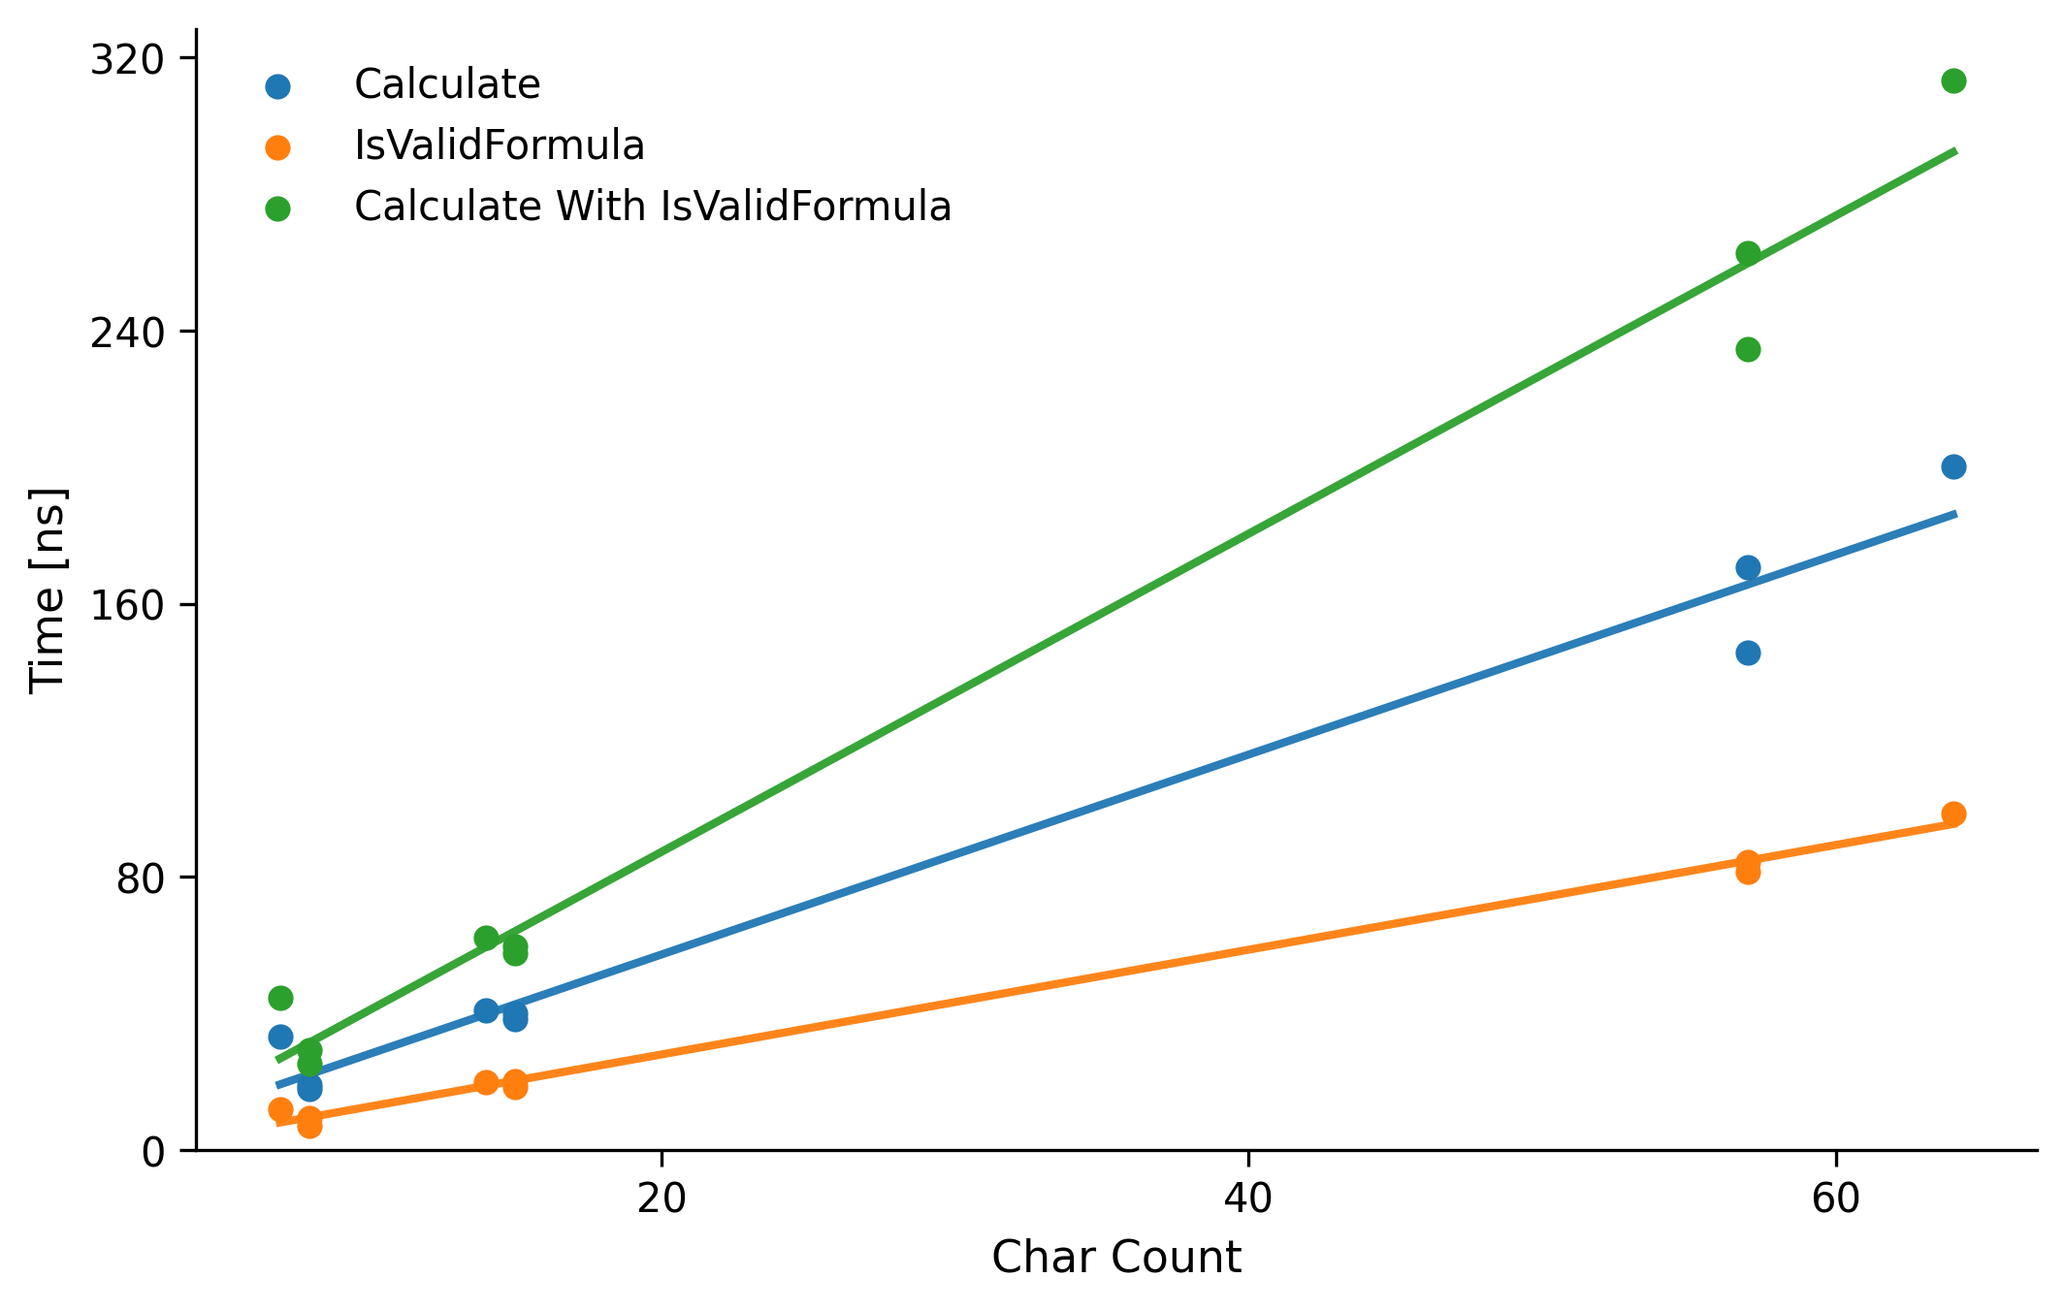
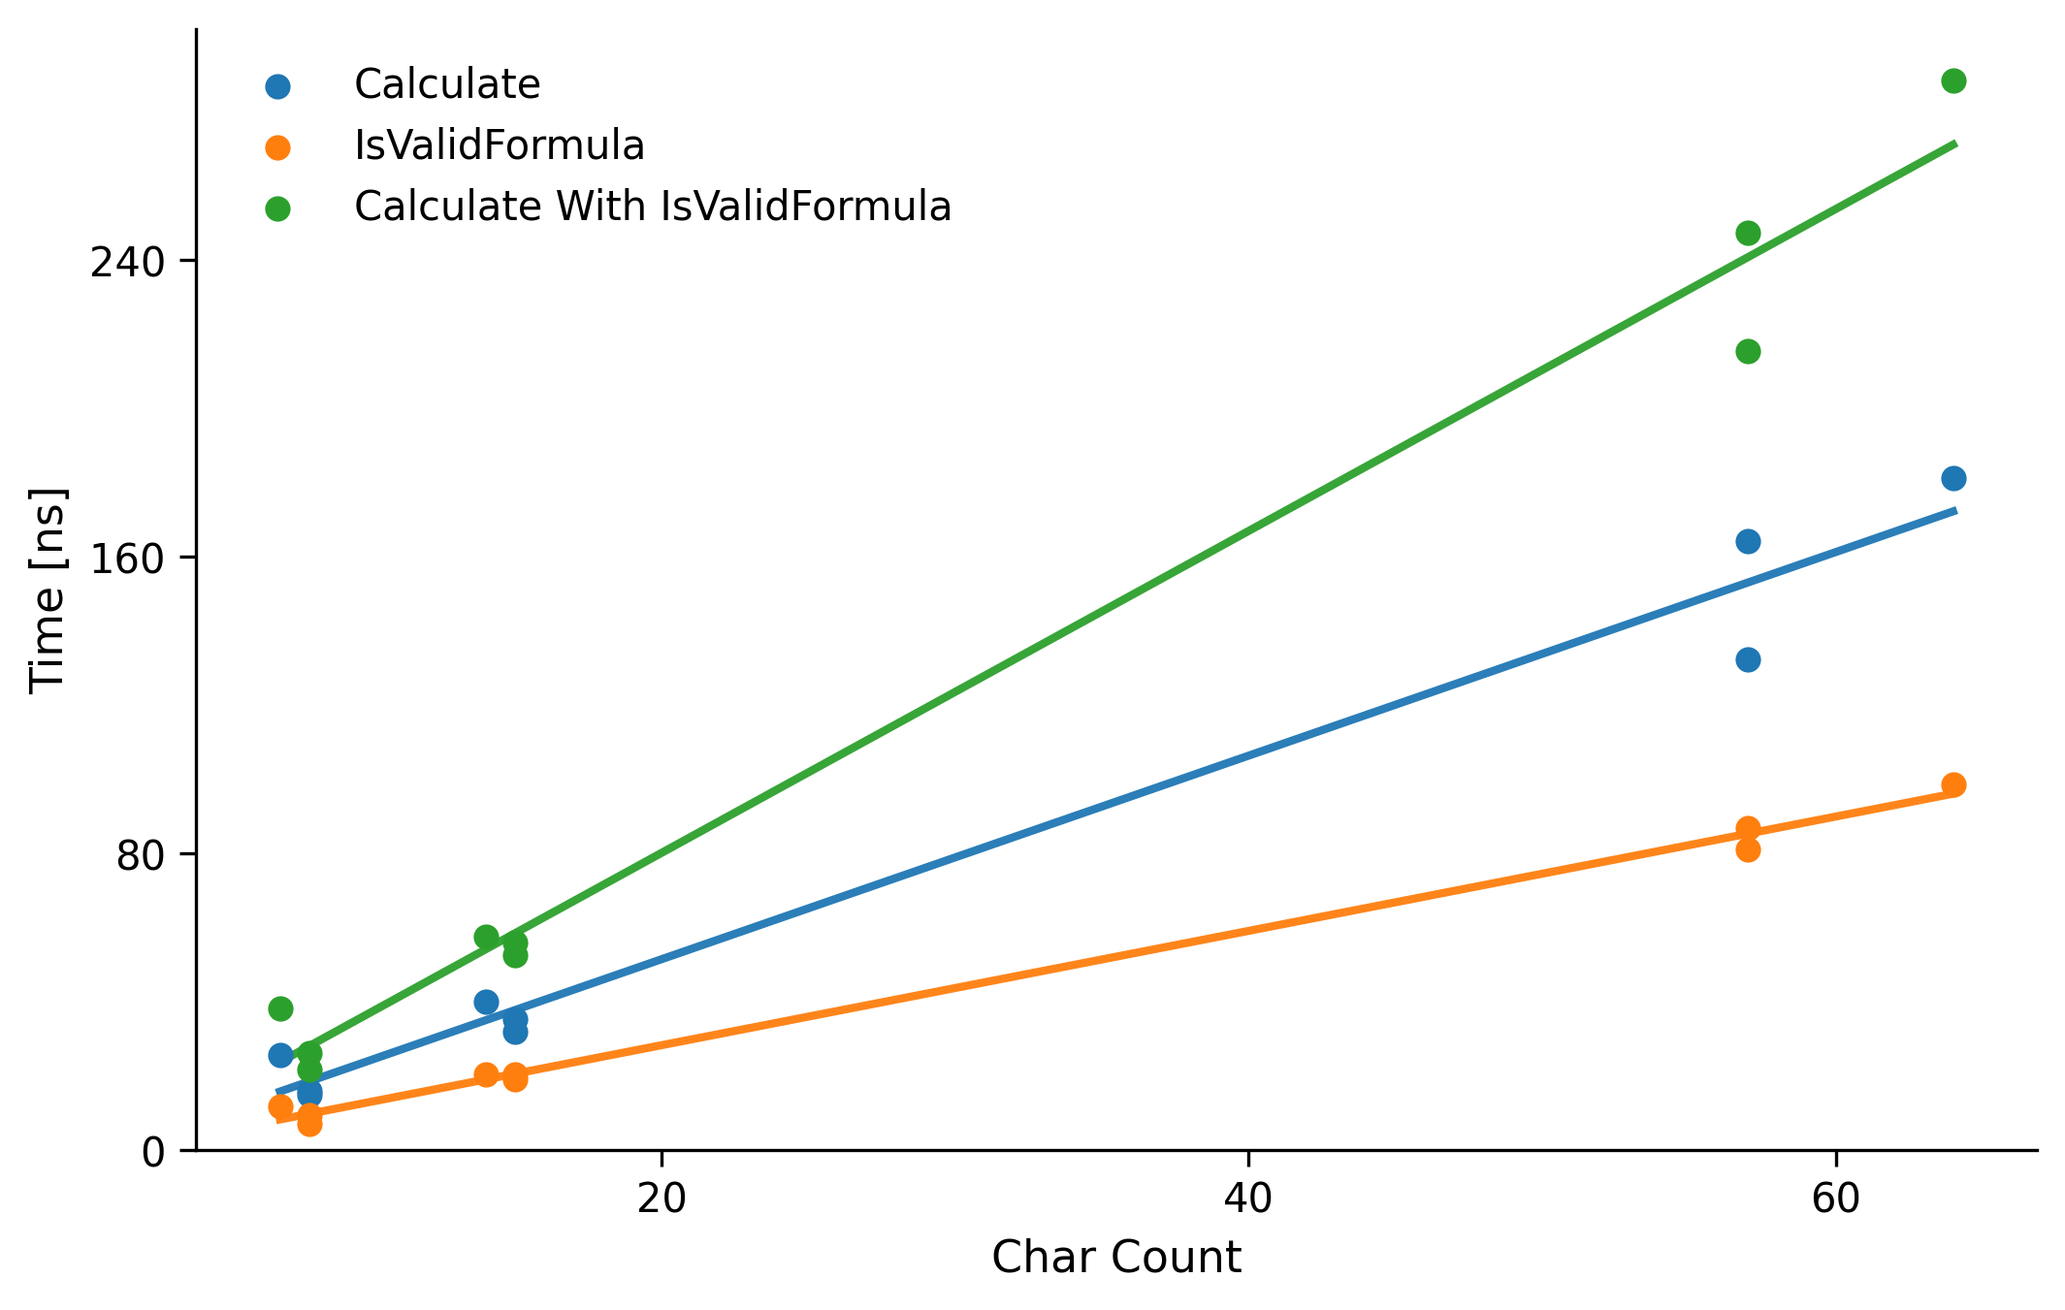
Update benchmark results and metadata for improved accuracy and clarity

diff --git a/dotnet/BenchmarkResults/BenchmarkResult.html b/dotnet/BenchmarkResults/BenchmarkResult.html
@@ -2,7 +2,7 @@
 <html lang='en'>
 <head>
 <meta charset='utf-8' />
-<title>foriver4725.FormulaCalculator.Benchmarks.Benchmarks-20260531-012159</title>
+<title>foriver4725.FormulaCalculator.Benchmarks.Benchmarks-20261004-000212</title>
 
 <style type="text/css">
 	table { border-collapse: collapse; display: block; width: 100%; overflow: auto; }
@@ -13,7 +13,7 @@
 </head>
 <body>
 <pre><code>
-BenchmarkDotNet v0.15.8, macOS Tahoe 26.5 (25F71) [Darwin 25.5.0]
+BenchmarkDotNet v0.15.8, macOS 27.0.1 (26A434) [Darwin 27.0.0]
 Apple M3, 1 CPU, 8 logical and 8 physical cores
 .NET SDK 10.0.102
   [Host]     : .NET 8.0.10 (8.0.10, 8.0.1024.46610), Arm64 RyuJIT armv8.0-a
@@ -24,33 +24,33 @@ Apple M3, 1 CPU, 8 logical and 8 physical cores
 <table>
 <thead><tr><th>Method                 </th><th>Input         </th><th>Case          </th><th>Char Count</th><th>Mean</th><th>Error</th><th>StdDev</th><th>Allocated</th>
 </tr>
-</thead><tbody><tr><td>Calculate</td><td>Len08_Mod_Pow</td><td>Len08_Mod_Pow</td><td>7</td><td>33.252 ns</td><td>0.5347 ns</td><td>0.4465 ns</td><td>-</td>
-</tr><tr><td>Calculate</td><td>Len08_Decimal_AddMul</td><td>Len08_Decimal_AddMul</td><td>8</td><td>17.841 ns</td><td>0.3593 ns</td><td>0.3689 ns</td><td>-</td>
-</tr><tr><td>Calculate</td><td>Len08_Whitespace</td><td>Len08_Whitespace</td><td>8</td><td>19.005 ns</td><td>0.0526 ns</td><td>0.0439 ns</td><td>-</td>
-</tr><tr><td>Calculate</td><td>Len16_Mod_Decimal</td><td>Len16_Mod_Decimal</td><td>14</td><td>40.973 ns</td><td>0.2759 ns</td><td>0.2446 ns</td><td>-</td>
-</tr><tr><td>Calculate</td><td>Len16_Pow_Decimal</td><td>Len16_Pow_Decimal</td><td>15</td><td>38.453 ns</td><td>0.2866 ns</td><td>0.2681 ns</td><td>-</td>
-</tr><tr><td>Calculate</td><td>Len16_Whitespace</td><td>Len16_Whitespace</td><td>15</td><td>39.978 ns</td><td>0.6000 ns</td><td>0.4685 ns</td><td>-</td>
-</tr><tr><td>Calculate</td><td>Len64_Mixed_02</td><td>Len64_Mixed_02</td><td>57</td><td>170.588 ns</td><td>1.7754 ns</td><td>1.5738 ns</td><td>-</td>
-</tr><tr><td>Calculate</td><td>Len64_Mixed_03</td><td>Len64_Mixed_03</td><td>57</td><td>145.722 ns</td><td>2.0217 ns</td><td>1.7922 ns</td><td>-</td>
-</tr><tr><td>Calculate</td><td>Len64_Mixed_01</td><td>Len64_Mixed_01</td><td>64</td><td>200.181 ns</td><td>3.7449 ns</td><td>3.5029 ns</td><td>-</td>
-</tr><tr><td>IsValidFormula</td><td>Len08_Mod_Pow</td><td>Len08_Mod_Pow</td><td>7</td><td>11.820 ns</td><td>0.1849 ns</td><td>0.1639 ns</td><td>-</td>
-</tr><tr><td>IsValidFormula</td><td>Len08_Decimal_AddMul</td><td>Len08_Decimal_AddMul</td><td>8</td><td>7.236 ns</td><td>0.0219 ns</td><td>0.0194 ns</td><td>-</td>
-</tr><tr><td>IsValidFormula</td><td>Len08_Whitespace</td><td>Len08_Whitespace</td><td>8</td><td>9.399 ns</td><td>0.0280 ns</td><td>0.0249 ns</td><td>-</td>
-</tr><tr><td>IsValidFormula</td><td>Len16_Mod_Decimal</td><td>Len16_Mod_Decimal</td><td>14</td><td>19.864 ns</td><td>0.0496 ns</td><td>0.0387 ns</td><td>-</td>
-</tr><tr><td>IsValidFormula</td><td>Len16_Pow_Decimal</td><td>Len16_Pow_Decimal</td><td>15</td><td>18.550 ns</td><td>0.0692 ns</td><td>0.0647 ns</td><td>-</td>
-</tr><tr><td>IsValidFormula</td><td>Len16_Whitespace</td><td>Len16_Whitespace</td><td>15</td><td>20.157 ns</td><td>0.0860 ns</td><td>0.0763 ns</td><td>-</td>
-</tr><tr><td>IsValidFormula</td><td>Len64_Mixed_02</td><td>Len64_Mixed_02</td><td>57</td><td>84.507 ns</td><td>0.7267 ns</td><td>0.6068 ns</td><td>-</td>
-</tr><tr><td>IsValidFormula</td><td>Len64_Mixed_03</td><td>Len64_Mixed_03</td><td>57</td><td>81.659 ns</td><td>0.9581 ns</td><td>0.8962 ns</td><td>-</td>
-</tr><tr><td>IsValidFormula</td><td>Len64_Mixed_01</td><td>Len64_Mixed_01</td><td>64</td><td>98.666 ns</td><td>0.5266 ns</td><td>0.4668 ns</td><td>-</td>
-</tr><tr><td>Calculate_With_IsValidFormula</td><td>Len08_Mod_Pow</td><td>Len08_Mod_Pow</td><td>7</td><td>44.732 ns</td><td>0.1811 ns</td><td>0.1694 ns</td><td>-</td>
-</tr><tr><td>Calculate_With_IsValidFormula</td><td>Len08_Decimal_AddMul</td><td>Len08_Decimal_AddMul</td><td>8</td><td>25.210 ns</td><td>0.1623 ns</td><td>0.1439 ns</td><td>-</td>
-</tr><tr><td>Calculate_With_IsValidFormula</td><td>Len08_Whitespace</td><td>Len08_Whitespace</td><td>8</td><td>29.158 ns</td><td>0.5911 ns</td><td>0.7037 ns</td><td>-</td>
-</tr><tr><td>Calculate_With_IsValidFormula</td><td>Len16_Mod_Decimal</td><td>Len16_Mod_Decimal</td><td>14</td><td>62.350 ns</td><td>1.2767 ns</td><td>2.3979 ns</td><td>-</td>
-</tr><tr><td>Calculate_With_IsValidFormula</td><td>Len16_Pow_Decimal</td><td>Len16_Pow_Decimal</td><td>15</td><td>57.650 ns</td><td>0.7354 ns</td><td>0.6519 ns</td><td>-</td>
-</tr><tr><td>Calculate_With_IsValidFormula</td><td>Len16_Whitespace</td><td>Len16_Whitespace</td><td>15</td><td>59.610 ns</td><td>0.6384 ns</td><td>0.5331 ns</td><td>-</td>
-</tr><tr><td>Calculate_With_IsValidFormula</td><td>Len64_Mixed_02</td><td>Len64_Mixed_02</td><td>57</td><td>262.686 ns</td><td>5.1942 ns</td><td>7.4494 ns</td><td>-</td>
-</tr><tr><td>Calculate_With_IsValidFormula</td><td>Len64_Mixed_03</td><td>Len64_Mixed_03</td><td>57</td><td>234.512 ns</td><td>4.6677 ns</td><td>4.5843 ns</td><td>-</td>
-</tr><tr><td>Calculate_With_IsValidFormula</td><td>Len64_Mixed_01</td><td>Len64_Mixed_01</td><td>64</td><td>313.203 ns</td><td>6.0734 ns</td><td>6.9942 ns</td><td>-</td>
+</thead><tbody><tr><td>Calculate</td><td>Len08_Mod_Pow</td><td>Len08_Mod_Pow</td><td>7</td><td>25.671 ns</td><td>0.3219 ns</td><td>0.2853 ns</td><td>-</td>
+</tr><tr><td>Calculate</td><td>Len08_Decimal_AddMul</td><td>Len08_Decimal_AddMul</td><td>8</td><td>14.917 ns</td><td>0.1458 ns</td><td>0.1292 ns</td><td>-</td>
+</tr><tr><td>Calculate</td><td>Len08_Whitespace</td><td>Len08_Whitespace</td><td>8</td><td>16.053 ns</td><td>0.0249 ns</td><td>0.0221 ns</td><td>-</td>
+</tr><tr><td>Calculate</td><td>Len16_Mod_Decimal</td><td>Len16_Mod_Decimal</td><td>14</td><td>40.061 ns</td><td>0.1629 ns</td><td>0.1524 ns</td><td>-</td>
+</tr><tr><td>Calculate</td><td>Len16_Pow_Decimal</td><td>Len16_Pow_Decimal</td><td>15</td><td>31.930 ns</td><td>0.3934 ns</td><td>0.3285 ns</td><td>-</td>
+</tr><tr><td>Calculate</td><td>Len16_Whitespace</td><td>Len16_Whitespace</td><td>15</td><td>35.275 ns</td><td>0.5241 ns</td><td>0.4646 ns</td><td>-</td>
+</tr><tr><td>Calculate</td><td>Len64_Mixed_02</td><td>Len64_Mixed_02</td><td>57</td><td>164.178 ns</td><td>3.2034 ns</td><td>3.6890 ns</td><td>-</td>
+</tr><tr><td>Calculate</td><td>Len64_Mixed_03</td><td>Len64_Mixed_03</td><td>57</td><td>132.367 ns</td><td>0.8327 ns</td><td>0.7789 ns</td><td>-</td>
+</tr><tr><td>Calculate</td><td>Len64_Mixed_01</td><td>Len64_Mixed_01</td><td>64</td><td>181.325 ns</td><td>3.5479 ns</td><td>3.1451 ns</td><td>-</td>
+</tr><tr><td>IsValidFormula</td><td>Len08_Mod_Pow</td><td>Len08_Mod_Pow</td><td>7</td><td>11.670 ns</td><td>0.0525 ns</td><td>0.0491 ns</td><td>-</td>
+</tr><tr><td>IsValidFormula</td><td>Len08_Decimal_AddMul</td><td>Len08_Decimal_AddMul</td><td>8</td><td>7.214 ns</td><td>0.0315 ns</td><td>0.0263 ns</td><td>-</td>
+</tr><tr><td>IsValidFormula</td><td>Len08_Whitespace</td><td>Len08_Whitespace</td><td>8</td><td>9.445 ns</td><td>0.0956 ns</td><td>0.0847 ns</td><td>-</td>
+</tr><tr><td>IsValidFormula</td><td>Len16_Mod_Decimal</td><td>Len16_Mod_Decimal</td><td>14</td><td>20.376 ns</td><td>0.3388 ns</td><td>0.2829 ns</td><td>-</td>
+</tr><tr><td>IsValidFormula</td><td>Len16_Pow_Decimal</td><td>Len16_Pow_Decimal</td><td>15</td><td>19.144 ns</td><td>0.3879 ns</td><td>0.3629 ns</td><td>-</td>
+</tr><tr><td>IsValidFormula</td><td>Len16_Whitespace</td><td>Len16_Whitespace</td><td>15</td><td>20.390 ns</td><td>0.3468 ns</td><td>0.3074 ns</td><td>-</td>
+</tr><tr><td>IsValidFormula</td><td>Len64_Mixed_02</td><td>Len64_Mixed_02</td><td>57</td><td>86.924 ns</td><td>1.5002 ns</td><td>2.2454 ns</td><td>-</td>
+</tr><tr><td>IsValidFormula</td><td>Len64_Mixed_03</td><td>Len64_Mixed_03</td><td>57</td><td>81.124 ns</td><td>0.7950 ns</td><td>0.7047 ns</td><td>-</td>
+</tr><tr><td>IsValidFormula</td><td>Len64_Mixed_01</td><td>Len64_Mixed_01</td><td>64</td><td>98.536 ns</td><td>0.2344 ns</td><td>0.1830 ns</td><td>-</td>
+</tr><tr><td>Calculate_With_IsValidFormula</td><td>Len08_Mod_Pow</td><td>Len08_Mod_Pow</td><td>7</td><td>38.090 ns</td><td>0.2295 ns</td><td>0.2034 ns</td><td>-</td>
+</tr><tr><td>Calculate_With_IsValidFormula</td><td>Len08_Decimal_AddMul</td><td>Len08_Decimal_AddMul</td><td>8</td><td>21.836 ns</td><td>0.1106 ns</td><td>0.0924 ns</td><td>-</td>
+</tr><tr><td>Calculate_With_IsValidFormula</td><td>Len08_Whitespace</td><td>Len08_Whitespace</td><td>8</td><td>26.082 ns</td><td>0.4000 ns</td><td>0.3546 ns</td><td>-</td>
+</tr><tr><td>Calculate_With_IsValidFormula</td><td>Len16_Mod_Decimal</td><td>Len16_Mod_Decimal</td><td>14</td><td>57.646 ns</td><td>0.4676 ns</td><td>0.4145 ns</td><td>-</td>
+</tr><tr><td>Calculate_With_IsValidFormula</td><td>Len16_Pow_Decimal</td><td>Len16_Pow_Decimal</td><td>15</td><td>52.581 ns</td><td>1.0335 ns</td><td>0.8630 ns</td><td>-</td>
+</tr><tr><td>Calculate_With_IsValidFormula</td><td>Len16_Whitespace</td><td>Len16_Whitespace</td><td>15</td><td>56.113 ns</td><td>0.7693 ns</td><td>0.6424 ns</td><td>-</td>
+</tr><tr><td>Calculate_With_IsValidFormula</td><td>Len64_Mixed_02</td><td>Len64_Mixed_02</td><td>57</td><td>247.505 ns</td><td>3.4558 ns</td><td>3.2325 ns</td><td>-</td>
+</tr><tr><td>Calculate_With_IsValidFormula</td><td>Len64_Mixed_03</td><td>Len64_Mixed_03</td><td>57</td><td>215.421 ns</td><td>4.1510 ns</td><td>5.0978 ns</td><td>-</td>
+</tr><tr><td>Calculate_With_IsValidFormula</td><td>Len64_Mixed_01</td><td>Len64_Mixed_01</td><td>64</td><td>288.428 ns</td><td>5.7067 ns</td><td>7.2172 ns</td><td>-</td>
 </tr></tbody></table>
 </body>
 </html>

diff --git a/dotnet/BenchmarkResults/BenchmarkResult.md b/dotnet/BenchmarkResults/BenchmarkResult.md
@@ -1,6 +1,6 @@
 ```
 
-BenchmarkDotNet v0.15.8, macOS Tahoe 26.5 (25F71) [Darwin 25.5.0]
+BenchmarkDotNet v0.15.8, macOS 27.0.1 (26A434) [Darwin 27.0.0]
 Apple M3, 1 CPU, 8 logical and 8 physical cores
 .NET SDK 10.0.102
   [Host]     : .NET 8.0.10 (8.0.10, 8.0.1024.46610), Arm64 RyuJIT armv8.0-a
@@ -10,30 +10,30 @@ Apple M3, 1 CPU, 8 logical and 8 physical cores
 ```
 | Method                        | Input                | Case                 | Char Count | Mean       | Error     | StdDev    | Allocated |
 |------------------------------ |--------------------- |--------------------- |-----------:|-----------:|----------:|----------:|----------:|
-| Calculate                     | Len08_Mod_Pow        | Len08_Mod_Pow        |          7 |  33.252 ns | 0.5347 ns | 0.4465 ns |         - |
-| Calculate                     | Len08_Decimal_AddMul | Len08_Decimal_AddMul |          8 |  17.841 ns | 0.3593 ns | 0.3689 ns |         - |
-| Calculate                     | Len08_Whitespace     | Len08_Whitespace     |          8 |  19.005 ns | 0.0526 ns | 0.0439 ns |         - |
-| Calculate                     | Len16_Mod_Decimal    | Len16_Mod_Decimal    |         14 |  40.973 ns | 0.2759 ns | 0.2446 ns |         - |
-| Calculate                     | Len16_Pow_Decimal    | Len16_Pow_Decimal    |         15 |  38.453 ns | 0.2866 ns | 0.2681 ns |         - |
-| Calculate                     | Len16_Whitespace     | Len16_Whitespace     |         15 |  39.978 ns | 0.6000 ns | 0.4685 ns |         - |
-| Calculate                     | Len64_Mixed_02       | Len64_Mixed_02       |         57 | 170.588 ns | 1.7754 ns | 1.5738 ns |         - |
-| Calculate                     | Len64_Mixed_03       | Len64_Mixed_03       |         57 | 145.722 ns | 2.0217 ns | 1.7922 ns |         - |
-| Calculate                     | Len64_Mixed_01       | Len64_Mixed_01       |         64 | 200.181 ns | 3.7449 ns | 3.5029 ns |         - |
-| IsValidFormula                | Len08_Mod_Pow        | Len08_Mod_Pow        |          7 |  11.820 ns | 0.1849 ns | 0.1639 ns |         - |
-| IsValidFormula                | Len08_Decimal_AddMul | Len08_Decimal_AddMul |          8 |   7.236 ns | 0.0219 ns | 0.0194 ns |         - |
-| IsValidFormula                | Len08_Whitespace     | Len08_Whitespace     |          8 |   9.399 ns | 0.0280 ns | 0.0249 ns |         - |
-| IsValidFormula                | Len16_Mod_Decimal    | Len16_Mod_Decimal    |         14 |  19.864 ns | 0.0496 ns | 0.0387 ns |         - |
-| IsValidFormula                | Len16_Pow_Decimal    | Len16_Pow_Decimal    |         15 |  18.550 ns | 0.0692 ns | 0.0647 ns |         - |
-| IsValidFormula                | Len16_Whitespace     | Len16_Whitespace     |         15 |  20.157 ns | 0.0860 ns | 0.0763 ns |         - |
-| IsValidFormula                | Len64_Mixed_02       | Len64_Mixed_02       |         57 |  84.507 ns | 0.7267 ns | 0.6068 ns |         - |
-| IsValidFormula                | Len64_Mixed_03       | Len64_Mixed_03       |         57 |  81.659 ns | 0.9581 ns | 0.8962 ns |         - |
-| IsValidFormula                | Len64_Mixed_01       | Len64_Mixed_01       |         64 |  98.666 ns | 0.5266 ns | 0.4668 ns |         - |
-| Calculate_With_IsValidFormula | Len08_Mod_Pow        | Len08_Mod_Pow        |          7 |  44.732 ns | 0.1811 ns | 0.1694 ns |         - |
-| Calculate_With_IsValidFormula | Len08_Decimal_AddMul | Len08_Decimal_AddMul |          8 |  25.210 ns | 0.1623 ns | 0.1439 ns |         - |
-| Calculate_With_IsValidFormula | Len08_Whitespace     | Len08_Whitespace     |          8 |  29.158 ns | 0.5911 ns | 0.7037 ns |         - |
-| Calculate_With_IsValidFormula | Len16_Mod_Decimal    | Len16_Mod_Decimal    |         14 |  62.350 ns | 1.2767 ns | 2.3979 ns |         - |
-| Calculate_With_IsValidFormula | Len16_Pow_Decimal    | Len16_Pow_Decimal    |         15 |  57.650 ns | 0.7354 ns | 0.6519 ns |         - |
-| Calculate_With_IsValidFormula | Len16_Whitespace     | Len16_Whitespace     |         15 |  59.610 ns | 0.6384 ns | 0.5331 ns |         - |
-| Calculate_With_IsValidFormula | Len64_Mixed_02       | Len64_Mixed_02       |         57 | 262.686 ns | 5.1942 ns | 7.4494 ns |         - |
-| Calculate_With_IsValidFormula | Len64_Mixed_03       | Len64_Mixed_03       |         57 | 234.512 ns | 4.6677 ns | 4.5843 ns |         - |
-| Calculate_With_IsValidFormula | Len64_Mixed_01       | Len64_Mixed_01       |         64 | 313.203 ns | 6.0734 ns | 6.9942 ns |         - |
+| Calculate                     | Len08_Mod_Pow        | Len08_Mod_Pow        |          7 |  25.671 ns | 0.3219 ns | 0.2853 ns |         - |
+| Calculate                     | Len08_Decimal_AddMul | Len08_Decimal_AddMul |          8 |  14.917 ns | 0.1458 ns | 0.1292 ns |         - |
+| Calculate                     | Len08_Whitespace     | Len08_Whitespace     |          8 |  16.053 ns | 0.0249 ns | 0.0221 ns |         - |
+| Calculate                     | Len16_Mod_Decimal    | Len16_Mod_Decimal    |         14 |  40.061 ns | 0.1629 ns | 0.1524 ns |         - |
+| Calculate                     | Len16_Pow_Decimal    | Len16_Pow_Decimal    |         15 |  31.930 ns | 0.3934 ns | 0.3285 ns |         - |
+| Calculate                     | Len16_Whitespace     | Len16_Whitespace     |         15 |  35.275 ns | 0.5241 ns | 0.4646 ns |         - |
+| Calculate                     | Len64_Mixed_02       | Len64_Mixed_02       |         57 | 164.178 ns | 3.2034 ns | 3.6890 ns |         - |
+| Calculate                     | Len64_Mixed_03       | Len64_Mixed_03       |         57 | 132.367 ns | 0.8327 ns | 0.7789 ns |         - |
+| Calculate                     | Len64_Mixed_01       | Len64_Mixed_01       |         64 | 181.325 ns | 3.5479 ns | 3.1451 ns |         - |
+| IsValidFormula                | Len08_Mod_Pow        | Len08_Mod_Pow        |          7 |  11.670 ns | 0.0525 ns | 0.0491 ns |         - |
+| IsValidFormula                | Len08_Decimal_AddMul | Len08_Decimal_AddMul |          8 |   7.214 ns | 0.0315 ns | 0.0263 ns |         - |
+| IsValidFormula                | Len08_Whitespace     | Len08_Whitespace     |          8 |   9.445 ns | 0.0956 ns | 0.0847 ns |         - |
+| IsValidFormula                | Len16_Mod_Decimal    | Len16_Mod_Decimal    |         14 |  20.376 ns | 0.3388 ns | 0.2829 ns |         - |
+| IsValidFormula                | Len16_Pow_Decimal    | Len16_Pow_Decimal    |         15 |  19.144 ns | 0.3879 ns | 0.3629 ns |         - |
+| IsValidFormula                | Len16_Whitespace     | Len16_Whitespace     |         15 |  20.390 ns | 0.3468 ns | 0.3074 ns |         - |
+| IsValidFormula                | Len64_Mixed_02       | Len64_Mixed_02       |         57 |  86.924 ns | 1.5002 ns | 2.2454 ns |         - |
+| IsValidFormula                | Len64_Mixed_03       | Len64_Mixed_03       |         57 |  81.124 ns | 0.7950 ns | 0.7047 ns |         - |
+| IsValidFormula                | Len64_Mixed_01       | Len64_Mixed_01       |         64 |  98.536 ns | 0.2344 ns | 0.1830 ns |         - |
+| Calculate_With_IsValidFormula | Len08_Mod_Pow        | Len08_Mod_Pow        |          7 |  38.090 ns | 0.2295 ns | 0.2034 ns |         - |
+| Calculate_With_IsValidFormula | Len08_Decimal_AddMul | Len08_Decimal_AddMul |          8 |  21.836 ns | 0.1106 ns | 0.0924 ns |         - |
+| Calculate_With_IsValidFormula | Len08_Whitespace     | Len08_Whitespace     |          8 |  26.082 ns | 0.4000 ns | 0.3546 ns |         - |
+| Calculate_With_IsValidFormula | Len16_Mod_Decimal    | Len16_Mod_Decimal    |         14 |  57.646 ns | 0.4676 ns | 0.4145 ns |         - |
+| Calculate_With_IsValidFormula | Len16_Pow_Decimal    | Len16_Pow_Decimal    |         15 |  52.581 ns | 1.0335 ns | 0.8630 ns |         - |
+| Calculate_With_IsValidFormula | Len16_Whitespace     | Len16_Whitespace     |         15 |  56.113 ns | 0.7693 ns | 0.6424 ns |         - |
+| Calculate_With_IsValidFormula | Len64_Mixed_02       | Len64_Mixed_02       |         57 | 247.505 ns | 3.4558 ns | 3.2325 ns |         - |
+| Calculate_With_IsValidFormula | Len64_Mixed_03       | Len64_Mixed_03       |         57 | 215.421 ns | 4.1510 ns | 5.0978 ns |         - |
+| Calculate_With_IsValidFormula | Len64_Mixed_01       | Len64_Mixed_01       |         64 | 288.428 ns | 5.7067 ns | 7.2172 ns |         - |
